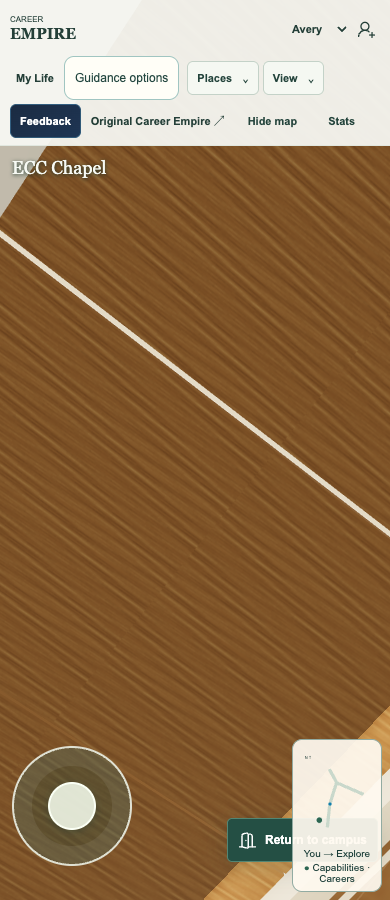
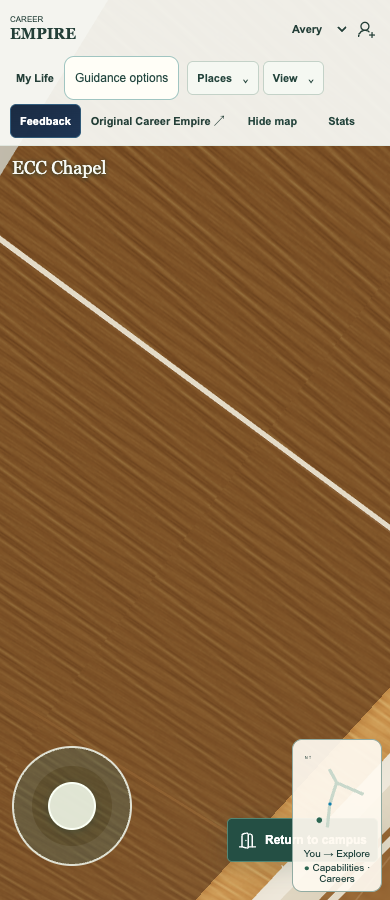
Close verified live Chapel walk-in release and current actions
Preserve V2.41 reader, curriculum, screenshots and prior coverage. Chapel1733b4b actual live controls and353 assets independently verified.

diff --git a/production/chapel-walk-in-release-20261113.html b/production/chapel-walk-in-release-20261113.html
@@ -1,4 +1,4 @@
-<!doctype html><html lang="en"><meta charset="utf-8"><meta name="viewport" content="width=device-width,initial-scale=1"><title>Chapel walk-in source review</title><style>body{max-width:90ch;margin:2rem auto;padding:0 1rem;font:18px/1.6 system-ui;color:#193d42;background:#fffdf6;overflow-wrap:anywhere}h1,h2{line-height:1.2}img{max-width:100%;height:auto;border-radius:12px}pre{white-space:pre-wrap;overflow-wrap:anywhere;font:14px/1.5 monospace}figure{margin:24px 0}</style><main><a href="../">Blueprint reader</a><h1>Chapel: walk in, look around, return</h1><h2>Request, ownership and prior delay</h2><p>Tania requested walking through the Chapel doorway without an Enter Chapel click, looking upward and around inside, and retaining click-to-exit. Her13November Perth follow-up asks why it is not live so she can record the courtyard walkthrough. The executing integrator independently read both authenticated requests. The delay was an unfinished serial release: the eight-file qualified candidate was based on69aa78e and remained queued while Archon and Notes were published. This task merges it onto actual current250c409, verifies it and uses the unchanged source-review/receipt/push process. Physical-device certification and ceiling visual perfection are not newly invented indefinite release gates.</p><h2>Bounded integration</h2><p>Clean three-way merge retains every current Archon/Notes behavior. The eight source files contain the doorway helper, main movement/camera integration, nonblocking discovery guidance, entry cache tags, runtime manifest and two existing test-fixture regressions. The Market Notes cache/import chain remains unchanged. Native keyboard/joystick walking must cross the real narrow inward doorway; standing nearby, wrong key or clicking the old prompt does not substitute. A shared pending promise prevents duplicate preparation; failed loading can retry after stepping back, and intervening navigation prevents a late transition. Return places the player outside and rearms only after moving clear.</p><h2>Interior camera and exit</h2><p>Horizontal scanning remains available; vertical drag uses bounded tilt and a perspective look-height calculation so the ceiling is inspectable without moving the camera through the roof. Camera/body bounds are preserved. Return to campus remains a visible native control throughout the Chapel; completed primary touch activates once even if a browser omits its synthesized click, clears held movement, consumes a later matching touch click and preserves keyboard/mouse activation. Drag-off, cancellation, wrong pointer and disabled/hidden controls do not activate. First-day guidance no longer automatically opens the old Chapel proximity modal while walking; explicit help/checkpoint behavior remains.</p><h2>Exact current-base checks</h2><p>387 unit tests across82 files pass with original limits;353 staged runtime hashes and106 reachable imports pass, as do10 focused doorway/load/race/touch regressions. Five integrated native-Metal Chrome cases pass: desktop/phone camera bounds; actual first-day walking through the doorway, upward look, mouse exit/checkpoint and reentry at1280/390;390 automated touch joystick movement, more than a full horizontal turn, ceiling gesture, two real touch exits/reentries, zeroed held input, drag-off cancellation and Enter-key exit. Tests use normal guest routes, real physics displacement and real pointer/keyboard/CDP touch events. Read-only test observers expose pose/frame evidence; they do not teleport or alter gameplay. Native rendered-frame counters and screenshots establish the draw after looking up; software-only presentation counters are not misreported as native evidence.</p><h2>Retakes and limits</h2><p>Initial imported test setup used a generic local HTTP server that reset parallel module downloads. The existing repository128-request-queue/range server was then used. A readiness race clicked destinations before startup; the harness now waits for actual entryReady. A cloud assertion waited for a software-only presented-frame attribute on native rendering; the check now uses the native rendered-frame count and pose-at-draw while preserving actual draw/interaction assertions. Failed structured runs and fresh final output paths are retained; an aborted early retake reused some screenshot paths, so not every initial screenshot remains. No production change or assertion threshold reduction was used to disguise these harness issues. Final native ceiling/interior captures are visible, unlike earlier near-black unchanged-baseline SwiftShader evidence. Physical device, Safari, final architectural appearance acceptance and Tania’s recording remain separate.</p><h2>Preserved integration and release scope</h2><p>Current Notes250c409 and readable Archon remain integrated; their game commands, shared curriculum library, draft/privacy behavior, artwork and hosted service are unchanged. Separate CI f156c32 is safely parked for this release and must be restored/staged alone afterwards. Queued EST, portfolio and Flyover candidates remain separate successors, not old-file overwrites. Source review is qualified; game publication is pending the genuine covered receipt and normal push. Approved, tested, live and accepted remain distinct. Broader CI has known admin-preview/legacy-avatar failures; no all-CI-green or school-readiness claim is made.</p><h2>Impact and evidence boundary</h2><p>This is local movement, camera, interaction and optional guidance only. No new data field, account, provider, learner storage key, telemetry, backend, security setting, model or asset production. Existing Chapel identity, progression checkpoint and protected decisions remain. No source textbook/student material is added. Automated phone-width/touch evidence is not an assertion about an unspecified physical device. The user will record the walkthrough after independently verified live publication.</p><h2>Native rendered candidate</h2><figure><img src="../evidence/chapel-walk-in-20261113/interior-1280.png" alt="Actual native Chapel candidate desktop interior"><figcaption>Native renderer, tested current-base candidate. Live publication and user appearance/recording acceptance are separate.</figcaption></figure><figure><img src="../evidence/chapel-walk-in-20261113/ceiling-touch-390.png" alt="Actual native Chapel candidate automated touch ceiling view"><figcaption>Native renderer, tested current-base candidate. Live publication and user appearance/recording acceptance are separate.</figcaption></figure><h2>Exact source files</h2><pre>playable-3d/app.js 100644:733aba8b409fd7e62f7aac88c857d03863eb3ff8
+<!doctype html><html lang="en"><meta charset="utf-8"><meta name="viewport" content="width=device-width,initial-scale=1"><title>Chapel walk-in source review</title><style>body{max-width:90ch;margin:2rem auto;padding:0 1rem;font:18px/1.6 system-ui;color:#193d42;background:#fffdf6;overflow-wrap:anywhere}h1,h2{line-height:1.2}img{max-width:100%;height:auto;border-radius:12px}pre{white-space:pre-wrap;overflow-wrap:anywhere;font:14px/1.5 monospace}figure{margin:24px 0}</style><main><section><h2>Published and verified</h2><p>Chapel walk-in 1733b4b5e1447e9877e9abb972b816bf1d4102cc is published at the actual Career Empire game. All353 actual runtime asset hashes match. Live native Chrome first-day physical walking through the doorway, upward ceiling scan, mouse return/checkpoint/reentry at1280 and automated touch joystick/yaw/ceiling/two exits/reentries/cancel/keyboard exit at390 pass. Actual unmodified published Market/map hide-show, classroom entry, Notes reading/feedback/written responses, Journal contextual return, Archon lobby and same-run checks pass at1280/390; guest Notes makes zero Storage API/backend requests. Source387 tests/82 files,353 staged assets/106 imports,10 focused and5 integrated native cases pass. Read-only live pose/frame observers document actual game physics and renders; no teleport or gameplay replacement. Separate CI f156c32 restored staged only. Broad CI admin-preview failure remains; no all-CI-green, Safari, physical-device, classroom or whole-campus appearance acceptance. Tania can now check the live game and record the Chapel walkthrough. EST, portfolio and Flyover remain separate successors.</p><a href="https://emmanuel-ict-support.github.io/GTCEM-Career-Empire/playable-3d/">Actual live game</a></section><a href="../">Blueprint reader</a><h1>Chapel: walk in, look around, return</h1><h2>Request, ownership and prior delay</h2><p>Tania requested walking through the Chapel doorway without an Enter Chapel click, looking upward and around inside, and retaining click-to-exit. Her13November Perth follow-up asks why it is not live so she can record the courtyard walkthrough. The executing integrator independently read both authenticated requests. The delay was an unfinished serial release: the eight-file qualified candidate was based on69aa78e and remained queued while Archon and Notes were published. This task merges it onto actual current250c409, verifies it and uses the unchanged source-review/receipt/push process. Physical-device certification and ceiling visual perfection are not newly invented indefinite release gates.</p><h2>Bounded integration</h2><p>Clean three-way merge retains every current Archon/Notes behavior. The eight source files contain the doorway helper, main movement/camera integration, nonblocking discovery guidance, entry cache tags, runtime manifest and two existing test-fixture regressions. The Market Notes cache/import chain remains unchanged. Native keyboard/joystick walking must cross the real narrow inward doorway; standing nearby, wrong key or clicking the old prompt does not substitute. A shared pending promise prevents duplicate preparation; failed loading can retry after stepping back, and intervening navigation prevents a late transition. Return places the player outside and rearms only after moving clear.</p><h2>Interior camera and exit</h2><p>Horizontal scanning remains available; vertical drag uses bounded tilt and a perspective look-height calculation so the ceiling is inspectable without moving the camera through the roof. Camera/body bounds are preserved. Return to campus remains a visible native control throughout the Chapel; completed primary touch activates once even if a browser omits its synthesized click, clears held movement, consumes a later matching touch click and preserves keyboard/mouse activation. Drag-off, cancellation, wrong pointer and disabled/hidden controls do not activate. First-day guidance no longer automatically opens the old Chapel proximity modal while walking; explicit help/checkpoint behavior remains.</p><h2>Exact current-base checks</h2><p>387 unit tests across82 files pass with original limits;353 staged runtime hashes and106 reachable imports pass, as do10 focused doorway/load/race/touch regressions. Five integrated native-Metal Chrome cases pass: desktop/phone camera bounds; actual first-day walking through the doorway, upward look, mouse exit/checkpoint and reentry at1280/390;390 automated touch joystick movement, more than a full horizontal turn, ceiling gesture, two real touch exits/reentries, zeroed held input, drag-off cancellation and Enter-key exit. Tests use normal guest routes, real physics displacement and real pointer/keyboard/CDP touch events. Read-only test observers expose pose/frame evidence; they do not teleport or alter gameplay. Native rendered-frame counters and screenshots establish the draw after looking up; software-only presentation counters are not misreported as native evidence.</p><h2>Retakes and limits</h2><p>Initial imported test setup used a generic local HTTP server that reset parallel module downloads. The existing repository128-request-queue/range server was then used. A readiness race clicked destinations before startup; the harness now waits for actual entryReady. A cloud assertion waited for a software-only presented-frame attribute on native rendering; the check now uses the native rendered-frame count and pose-at-draw while preserving actual draw/interaction assertions. Failed structured runs and fresh final output paths are retained; an aborted early retake reused some screenshot paths, so not every initial screenshot remains. No production change or assertion threshold reduction was used to disguise these harness issues. Final native ceiling/interior captures are visible, unlike earlier near-black unchanged-baseline SwiftShader evidence. Physical device, Safari, final architectural appearance acceptance and Tania’s recording remain separate.</p><h2>Preserved integration and release scope</h2><p>Current Notes250c409 and readable Archon remain integrated; their game commands, shared curriculum library, draft/privacy behavior, artwork and hosted service are unchanged. Separate CI f156c32 is safely parked for this release and must be restored/staged alone afterwards. Queued EST, portfolio and Flyover candidates remain separate successors, not old-file overwrites. Source review is qualified; game publication is pending the genuine covered receipt and normal push. Approved, tested, live and accepted remain distinct. Broader CI has known admin-preview/legacy-avatar failures; no all-CI-green or school-readiness claim is made.</p><h2>Impact and evidence boundary</h2><p>This is local movement, camera, interaction and optional guidance only. No new data field, account, provider, learner storage key, telemetry, backend, security setting, model or asset production. Existing Chapel identity, progression checkpoint and protected decisions remain. No source textbook/student material is added. Automated phone-width/touch evidence is not an assertion about an unspecified physical device. The user will record the walkthrough after independently verified live publication.</p><h2>Native rendered candidate</h2><figure><img src="../evidence/chapel-walk-in-20261113/interior-1280.png" alt="Actual native Chapel candidate desktop interior"><figcaption>Actual live1733b4b native render. User appearance/recording acceptance remains separate.</figcaption></figure><figure><img src="../evidence/chapel-walk-in-20261113/ceiling-touch-390.png" alt="Actual native Chapel candidate automated touch ceiling view"><figcaption>Actual live1733b4b native render. User appearance/recording acceptance remains separate.</figcaption></figure><h2>Exact source files</h2><pre>playable-3d/app.js 100644:733aba8b409fd7e62f7aac88c857d03863eb3ff8
 playable-3d/chapel-entry.mjs 100644:0b45967eeb691be5889566a959d37460d2ababfb
 playable-3d/discovery-opening.js 100644:2ce06a571e2637ffe3549c3bb7b4f19989355f4b
 playable-3d/guest-shell.mjs 100644:c096d5d63f71853455c70a9593cdd51ed68323b8

diff --git a/production/current-state.html b/production/current-state.html
@@ -1,4 +1,4 @@
-<!doctype html><html lang="en"><meta charset="utf-8"><meta name="viewport" content="width=device-width,initial-scale=1"><title>Current game state</title><style>body{max-width:80ch;margin:2rem auto;padding:0 1rem;font:18px/1.6 system-ui;color:#193d42;background:#fffdf6}h1,h2{line-height:1.2}img{max-width:100%;height:auto;border-radius:14px}pre,code{white-space:pre-wrap;overflow-wrap:anywhere}figure{margin:20px 0}a{color:#075c7d}section{overflow-wrap:anywhere;min-width:0}</style><main><section><h2>Published and verified</h2><p>Notes worksheet 250c409e0b3587c23401d50ec5e7a4f08caf0ec0 is published and independently verified at the actual Career Empire GitHub Pages game. Pages43250263108 succeeded; all352 public runtime asset hashes match. Actual live1280/390 and1920 capture checks pass attributed reading/five behaviours, shared-bank wrong/correct feedback, written answers, Back/Close/Journal reopening, contextual Journal return, Archon lobby and same-run retention. Guest Notes checks make zero Storage API calls and zero backend requests; no page errors or missing responses. Source386tests/82files and352asset/105module checks pass. Required local CI source/unit passed; broad browser run recorded16pass/10fail/247not-run before graceful interruption after admin-entry modal and legacy-avatar failures. Remote source/unit passed, software browser installation failed and hardware lane was queued at observation. No all-CI-green, teacher submission, classroom, Safari or physical-device acceptance is claimed. Licensed originals remain private; only attributed adaptation and fictional responses are public. Existing CI/Chapel/EST/portfolio/Flyover candidates are preserved.</p></section><a href="archon-readable-board-20261112.html">Latest Archon release review</a><pre>## Accepted ECC opening checkpoint — 12 October2026
+<!doctype html><html lang="en"><meta charset="utf-8"><meta name="viewport" content="width=device-width,initial-scale=1"><title>Current game state</title><style>body{max-width:80ch;margin:2rem auto;padding:0 1rem;font:18px/1.6 system-ui;color:#193d42;background:#fffdf6}h1,h2{line-height:1.2}img{max-width:100%;height:auto;border-radius:14px}pre,code{white-space:pre-wrap;overflow-wrap:anywhere}figure{margin:20px 0}a{color:#075c7d}section{overflow-wrap:anywhere;min-width:0}</style><main><section><h2>Published and verified</h2><p>Chapel walk-in 1733b4b5e1447e9877e9abb972b816bf1d4102cc is published at the actual Career Empire game. All353 actual runtime asset hashes match. Live native Chrome first-day physical walking through the doorway, upward ceiling scan, mouse return/checkpoint/reentry at1280 and automated touch joystick/yaw/ceiling/two exits/reentries/cancel/keyboard exit at390 pass. Actual unmodified published Market/map hide-show, classroom entry, Notes reading/feedback/written responses, Journal contextual return, Archon lobby and same-run checks pass at1280/390; guest Notes makes zero Storage API/backend requests. Source387 tests/82 files,353 staged assets/106 imports,10 focused and5 integrated native cases pass. Read-only live pose/frame observers document actual game physics and renders; no teleport or gameplay replacement. Separate CI f156c32 restored staged only. Broad CI admin-preview failure remains; no all-CI-green, Safari, physical-device, classroom or whole-campus appearance acceptance. Tania can now check the live game and record the Chapel walkthrough. EST, portfolio and Flyover remain separate successors.</p><a href="https://emmanuel-ict-support.github.io/GTCEM-Career-Empire/playable-3d/">Actual live game</a></section><section><h2>Published and verified</h2><p>Notes worksheet 250c409e0b3587c23401d50ec5e7a4f08caf0ec0 is published and independently verified at the actual Career Empire GitHub Pages game. Pages43250263108 succeeded; all352 public runtime asset hashes match. Actual live1280/390 and1920 capture checks pass attributed reading/five behaviours, shared-bank wrong/correct feedback, written answers, Back/Close/Journal reopening, contextual Journal return, Archon lobby and same-run retention. Guest Notes checks make zero Storage API calls and zero backend requests; no page errors or missing responses. Source386tests/82files and352asset/105module checks pass. Required local CI source/unit passed; broad browser run recorded16pass/10fail/247not-run before graceful interruption after admin-entry modal and legacy-avatar failures. Remote source/unit passed, software browser installation failed and hardware lane was queued at observation. No all-CI-green, teacher submission, classroom, Safari or physical-device acceptance is claimed. Licensed originals remain private; only attributed adaptation and fictional responses are public. Existing CI/Chapel/EST/portfolio/Flyover candidates are preserved.</p></section><a href="archon-readable-board-20261112.html">Latest Archon release review</a><pre>## Accepted ECC opening checkpoint — 12 October2026
 
 PR53 is live at46d63d4d55a24123d3a578e3d257f0625f462426; Pages38320903492 succeeded and Tania accepted the actual opening23:21UTC. See [current receipt and WIP limits](ecc-release-blueprint-20261012.md). Source/unit222 and startupgrassRetry passed; criticaljourneys4pass/2fail, broadnotrun. NaturalChapelwalking, Sprout500ms movement and reported missing Market/Admin access stay open. Older local/public-test/PR45/46 statements below are dated history; no complete teacher-program, whole-game or school/security acceptance follows.
 

diff --git a/production/current-state.md b/production/current-state.md
@@ -349,3 +349,9 @@ Notes worksheet 250c409e0b3587c23401d50ec5e7a4f08caf0ec0 is published and indepe
 ## Chapel functional successor qualified — 13 November 2026
 
 Clean three-way merge retains every current Archon/Notes behavior. The eight source files contain the doorway helper, main movement/camera integration, nonblocking discovery guidance, entry cache tags, runtime manifest and two existing test-fixture regressions. The Market Notes cache/import chain remains unchanged. Native keyboard/joystick walking must cross the real narrow inward doorway; standing nearby, wrong key or clicking the old prompt does not substitute. A shared pending promise prevents duplicate preparation; failed loading can retry after stepping back, and intervening navigation prevents a late transition. Return places the player outside and rearms only after moving clear. 387 unit tests across82 files pass with original limits;353 staged runtime hashes and106 reachable imports pass, as do10 focused doorway/load/race/touch regressions. Five integrated native-Metal Chrome cases pass: desktop/phone camera bounds; actual first-day walking through the doorway, upward look, mouse exit/checkpoint and reentry at1280/390;390 automated touch joystick movement, more than a full horizontal turn, ceiling gesture, two real touch exits/reentries, zeroed held input, drag-off cancellation and Enter-key exit. Tests use normal guest routes, real physics displacement and real pointer/keyboard/CDP touch events. Read-only test observers expose pose/frame evidence; they do not teleport or alter gameplay. Native rendered-frame counters and screenshots establish the draw after looking up; software-only presentation counters are not misreported as native evidence. Publication remains pending normal source/receipt guards; Tania can record only after live verification. See [source review](chapel-walk-in-release-20261113.md).
+
+## Chapel verified live — 13 November 2026
+
+Chapel walk-in 1733b4b5e1447e9877e9abb972b816bf1d4102cc is published at the actual Career Empire game. All353 actual runtime asset hashes match. Live native Chrome first-day physical walking through the doorway, upward ceiling scan, mouse return/checkpoint/reentry at1280 and automated touch joystick/yaw/ceiling/two exits/reentries/cancel/keyboard exit at390 pass. Actual unmodified published Market/map hide-show, classroom entry, Notes reading/feedback/written responses, Journal contextual return, Archon lobby and same-run checks pass at1280/390; guest Notes makes zero Storage API/backend requests. Source387 tests/82 files,353 staged assets/106 imports,10 focused and5 integrated native cases pass. Read-only live pose/frame observers document actual game physics and renders; no teleport or gameplay replacement. Separate CI f156c32 restored staged only. Broad CI admin-preview failure remains; no all-CI-green, Safari, physical-device, classroom or whole-campus appearance acceptance. Tania can now check the live game and record the Chapel walkthrough. EST, portfolio and Flyover remain separate successors.
+
+[Actual live game](https://emmanuel-ict-support.github.io/GTCEM-Career-Empire/playable-3d/).

diff --git a/production/material-changes.md b/production/material-changes.md
@@ -2175,3 +2175,9 @@ Notes worksheet 250c409e0b3587c23401d50ec5e7a4f08caf0ec0 is published and indepe
 Clean three-way merge retains every current Archon/Notes behavior. The eight source files contain the doorway helper, main movement/camera integration, nonblocking discovery guidance, entry cache tags, runtime manifest and two existing test-fixture regressions. The Market Notes cache/import chain remains unchanged. Native keyboard/joystick walking must cross the real narrow inward doorway; standing nearby, wrong key or clicking the old prompt does not substitute. A shared pending promise prevents duplicate preparation; failed loading can retry after stepping back, and intervening navigation prevents a late transition. Return places the player outside and rearms only after moving clear. 387 unit tests across82 files pass with original limits;353 staged runtime hashes and106 reachable imports pass, as do10 focused doorway/load/race/touch regressions. Five integrated native-Metal Chrome cases pass: desktop/phone camera bounds; actual first-day walking through the doorway, upward look, mouse exit/checkpoint and reentry at1280/390;390 automated touch joystick movement, more than a full horizontal turn, ceiling gesture, two real touch exits/reentries, zeroed held input, drag-off cancellation and Enter-key exit. Tests use normal guest routes, real physics displacement and real pointer/keyboard/CDP touch events. Read-only test observers expose pose/frame evidence; they do not teleport or alter gameplay. Native rendered-frame counters and screenshots establish the draw after looking up; software-only presentation counters are not misreported as native evidence.
 
 Publication pending; no whole-game/classroom acceptance.
+
+## Chapel verified live — 13 November 2026
+
+Chapel walk-in 1733b4b5e1447e9877e9abb972b816bf1d4102cc is published at the actual Career Empire game. All353 actual runtime asset hashes match. Live native Chrome first-day physical walking through the doorway, upward ceiling scan, mouse return/checkpoint/reentry at1280 and automated touch joystick/yaw/ceiling/two exits/reentries/cancel/keyboard exit at390 pass. Actual unmodified published Market/map hide-show, classroom entry, Notes reading/feedback/written responses, Journal contextual return, Archon lobby and same-run checks pass at1280/390; guest Notes makes zero Storage API/backend requests. Source387 tests/82 files,353 staged assets/106 imports,10 focused and5 integrated native cases pass. Read-only live pose/frame observers document actual game physics and renders; no teleport or gameplay replacement. Separate CI f156c32 restored staged only. Broad CI admin-preview failure remains; no all-CI-green, Safari, physical-device, classroom or whole-campus appearance acceptance. Tania can now check the live game and record the Chapel walkthrough. EST, portfolio and Flyover remain separate successors.
+
+[Actual live game](https://emmanuel-ict-support.github.io/GTCEM-Career-Empire/playable-3d/).

diff --git a/production/chapel-walk-in-release-20261113.md b/production/chapel-walk-in-release-20261113.md
@@ -41,9 +41,15 @@ This is local movement, camera, interaction and optional guidance only. No new d
 
 ## Native rendered source evidence
 
-Actual tested current-base candidate, not a mockup or publication proof. Tania appearance/recording acceptance remains separate.
+Actual independently verified live1733b4b captures. Tania appearance/recording acceptance remains separate.
 
 ![Native Chapel render](../evidence/chapel-walk-in-20261113/interior-1280.png)
 
 ![Native Chapel render](../evidence/chapel-walk-in-20261113/ceiling-touch-390.png)
 
+
+## Chapel verified live — 13 November 2026
+
+Chapel walk-in 1733b4b5e1447e9877e9abb972b816bf1d4102cc is published at the actual Career Empire game. All353 actual runtime asset hashes match. Live native Chrome first-day physical walking through the doorway, upward ceiling scan, mouse return/checkpoint/reentry at1280 and automated touch joystick/yaw/ceiling/two exits/reentries/cancel/keyboard exit at390 pass. Actual unmodified published Market/map hide-show, classroom entry, Notes reading/feedback/written responses, Journal contextual return, Archon lobby and same-run checks pass at1280/390; guest Notes makes zero Storage API/backend requests. Source387 tests/82 files,353 staged assets/106 imports,10 focused and5 integrated native cases pass. Read-only live pose/frame observers document actual game physics and renders; no teleport or gameplay replacement. Separate CI f156c32 restored staged only. Broad CI admin-preview failure remains; no all-CI-green, Safari, physical-device, classroom or whole-campus appearance acceptance. Tania can now check the live game and record the Chapel walkthrough. EST, portfolio and Flyover remain separate successors.
+
+[Actual live game](https://emmanuel-ict-support.github.io/GTCEM-Career-Empire/playable-3d/).
